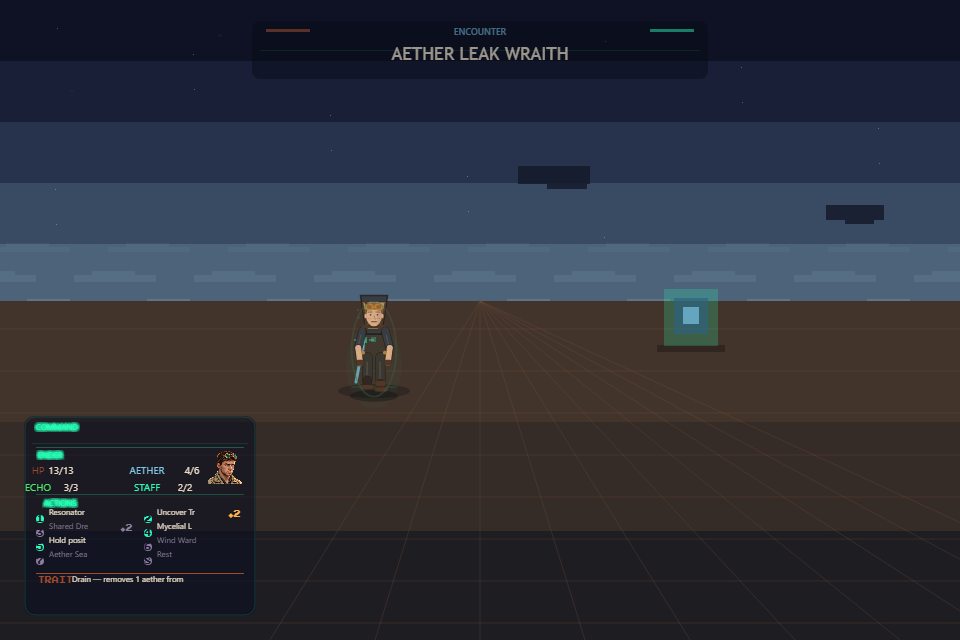
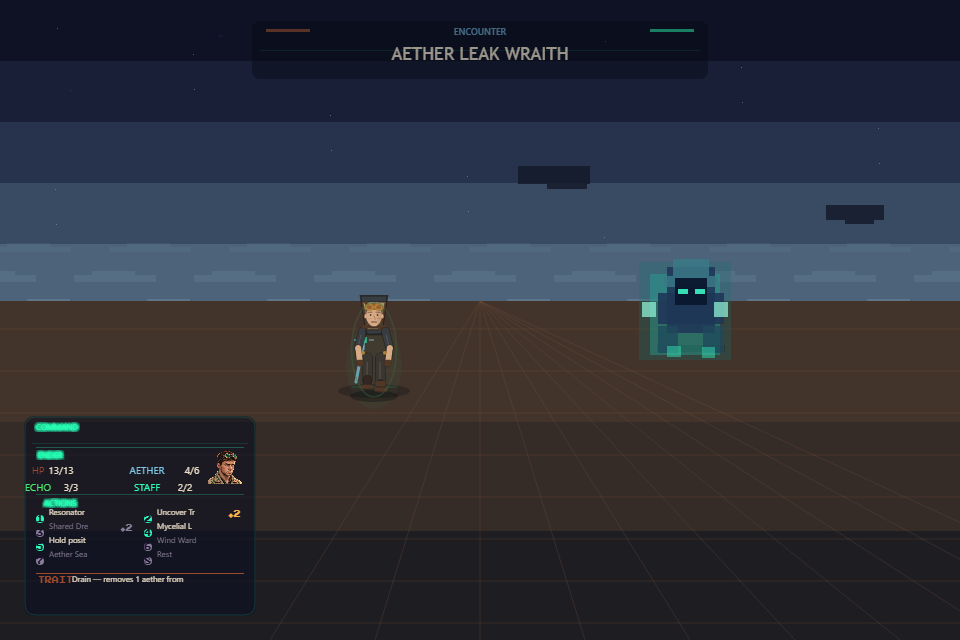
feat(combat): give random enemies distinctive animated silhouettes

Changed region(s): [[0.6562, 0.4062, 0.7812, 0.5625]]

diff --git a/modules/combat-visual-stage.js b/modules/combat-visual-stage.js
@@ -324,16 +324,59 @@
         frame: spriteFrame,
       });
     } else if (enemy.type === 'windShear') {
-      // Pixel pressure ribbons for the non-humanoid elemental.
-      fill(124, 200, 232, 120);
-      for (let i = 0; i < 5; i++) {
-        const wobble = Math.round(Math.sin(now * 0.006 + i) * 7);
-        rect(x - 34 + i * 10 + wobble, y - 28 + i * 10, 42 - i * 4, 4);
+      // Original layered, billowing elemental. A larger silhouette reads at
+      // game resolution and has a clear core/limb hierarchy rather than bars.
+      const sway = Math.round(Math.sin(now * 0.003) * 7);
+      const veil = Math.round(Math.sin(now * 0.005) * 5);
+      fill(44, 111, 163, 68);
+      rect(x - 49 + sway, y - 69, 98, 100);
+      fill(99, 184, 216, 130);
+      rect(x - 36 + sway, y - 55, 72, 67);
+      rect(x - 48 + veil, y - 11, 96, 14);
+      fill(183, 229, 241, 180);
+      rect(x - 23 + sway, y - 49, 46, 55);
+      rect(x - 33 + veil, y - 25, 66, 15);
+      fill(31, 71, 110, 215);
+      rect(x - 17 + sway, y - 34, 34, 26);
+      fill(240, 250, 239, 232);
+      rect(x - 12 + sway, y - 26, 7, 4);
+      rect(x + 5 + sway, y - 26, 7, 4);
+      fill(110, 223, 255, 175);
+      for (let i = 0; i < 6; i++) {
+        const displacement = Math.round(Math.sin(now * 0.005 + i * 1.2) * 8);
+        rect(x - 52 + i * 18 + displacement, y + 4 + i % 3 * 9, 12, 19);
       }
-      fill(205, 239, 241, 160);
-      rect(x - 8, y - 8, 16, 16);
+    } else if (enemy.type === 'aetherLeak') {
+      // Original aether wraith: hooded figure, drifting veil, visible face
+      // and hands. All dimensions are authored at native battle-stage scale.
+      const bob = Math.round(Math.sin(now * 0.004) * 4);
+      const wave = Math.round(Math.sin(now * 0.006) * 6);
+      fill(23, 113, 112, 70);
+      rect(x - 46 + wave, y - 61 + bob, 92, 98);
+      fill(35, 166, 151, 107);
+      rect(x - 35 + wave, y - 49 + bob, 70, 81);
+      fill(30, 54, 87, 226);
+      rect(x - 24, y - 56 + bob, 48, 66);
+      rect(x - 33, y - 30 + bob, 66, 31);
+      fill(58, 121, 134, 218);
+      rect(x - 18, y - 64 + bob, 36, 17);
+      rect(x - 27, y - 47 + bob, 54, 11);
+      fill(10, 24, 47, 245);
+      rect(x - 16, y - 45 + bob, 32, 27);
+      fill(60, 245, 200, 230);
+      rect(x - 13, y - 34 + bob, 10, 5);
+      rect(x + 4, y - 34 + bob, 10, 5);
+      fill(140, 236, 209, 196);
+      rect(x - 43 + wave, y - 21 + bob, 14, 15);
+      rect(x + 29 + wave, y - 21 + bob, 14, 15);
+      fill(31, 73, 92, 196);
+      rect(x - 27 + wave, y + 3 + bob, 20, 27);
+      rect(x + 6 - wave, y + 3 + bob, 21, 27);
+      fill(52, 222, 177, 130);
+      rect(x - 18 + wave, y + 23 + bob, 14, 11);
+      rect(x + 5 - wave, y + 24 + bob, 13, 11);
     } else {
-      // Aether-wraith / compatibility fallback: intentionally block-authored.
+      // Unrecognized enemies retain a bounded, distinguishable fallback.
       fill(42, 255, 181, 55);
       rect(x - 27, y - 31, 54, 57);
       fill(47, 97, 127, 170);

diff --git a/tests/random-encounter-enemy-visual.test.js b/tests/random-encounter-enemy-visual.test.js
@@ -1,0 +1,27 @@
+'use strict';
+const assert=require('node:assert/strict');
+const fs=require('node:fs'),vm=require('node:vm'),path=require('node:path');
+const code=fs.readFileSync(path.join(__dirname,'../modules/combat-visual-stage.js'),'utf8');
+const draws=[];
+const sandbox={window:{},globalThis:{},noStroke(){},fill(){},rect(x,y,w,h){draws.push([x,y,w,h]);}};
+vm.runInNewContext(code,sandbox);
+const scene=sandbox.window.AetherCombatVisual;
+function measure(type,now){
+ draws.length=0;
+ assert.equal(scene.drawEnemy({x:500,y:300,now,enemy:{type,hp:8,maxHp:8}}),true);
+ const x0=Math.min(...draws.map(v=>v[0]));
+ const y0=Math.min(...draws.map(v=>v[1]));
+ const x1=Math.max(...draws.map(v=>v[0]+v[2]));
+ const y1=Math.max(...draws.map(v=>v[1]+v[3]));
+ return {bounds:[x0,y0,x1,y1],shapes:draws.length,draws:JSON.stringify(draws)};
+}
+for(const type of ['aetherLeak','windShear']){
+ const a=measure(type,0),b=measure(type,600);
+ assert(a.bounds[2]-a.bounds[0]>=90,'enemy needs gameplay-readable battle width');
+ assert(a.bounds[3]-a.bounds[1]>=90,'enemy needs gameplay-readable battle height');
+ assert(a.shapes>=12,'enemy needs body/head/details beyond a plain rectangle');
+ assert.notEqual(a.draws,b.draws,'idle frames need visible motion');
+}
+assert.notEqual(measure('aetherLeak',0).draws,measure('windShear',0).draws,
+ 'different enemy types must have different stage silhouettes');
+console.log('Wraith + Wind Shear pixel silhouette scale/motion distinctness: PASS');
